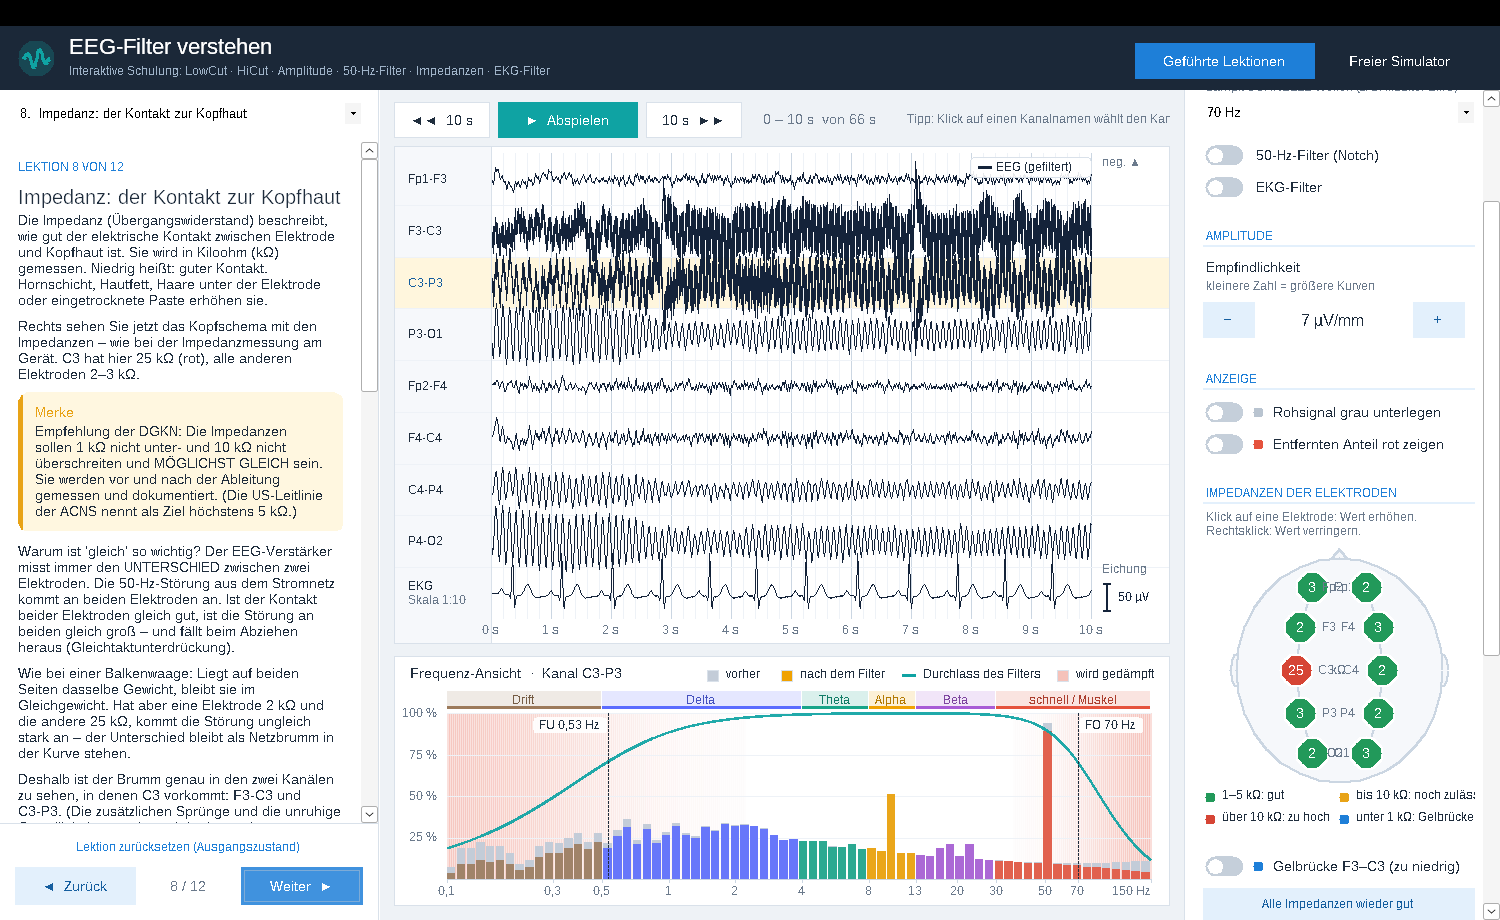
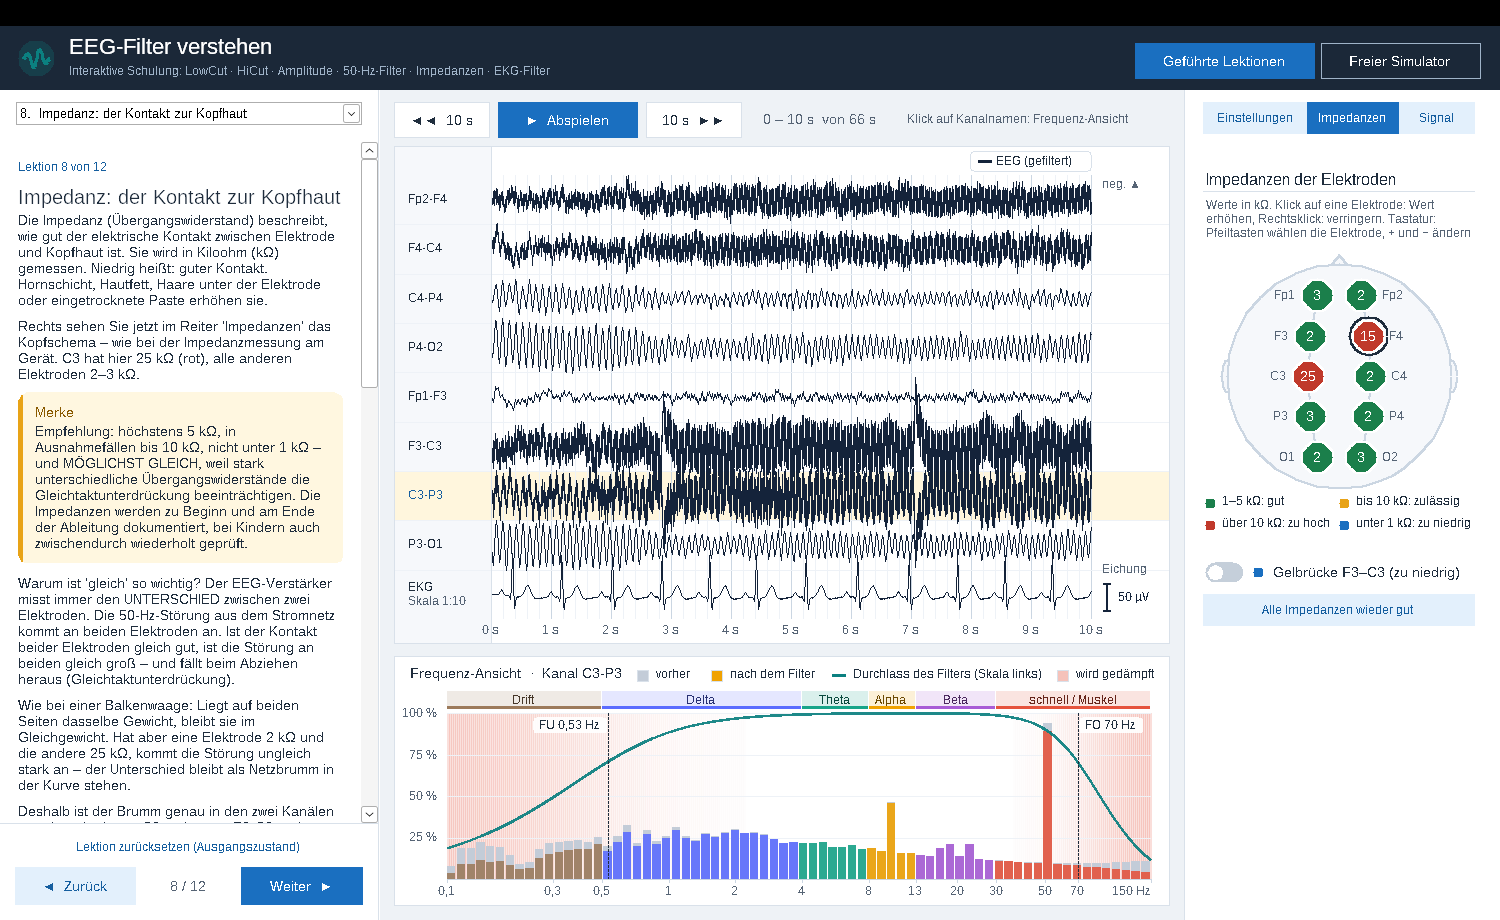
Rechte Leiste mit drei Reitern, Kopfschema per Tastatur bedienbar
- Einstellungen, Impedanzen und Signal als Reiter: jeder Bereich passt
  ohne Scrollen; Lektionen öffnen den passenden Reiter
- Kopfschema: Pfeiltasten wählen die Elektrode, + und - ändern den Wert,
  sichtbarer Fokusring

Claude-Session: https://claude.ai/code/session_01Y2fd9GsygCdrgbDvqwwBgL

diff --git a/README.md b/README.md
@@ -16,7 +16,8 @@ Das didaktische Konzept steht in [KONZEPT.md](KONZEPT.md).
 - **Geführte Lektionen** (12 Kapitel): links lesen, rechts ausprobieren. Mit „Weiter“ geht es zum nächsten Kapitel. „Lektion zurücksetzen“ stellt den Ausgangszustand wieder her.
 - **Freier Simulator**: Alle Regler und Signal-Bausteine sind frei wählbar.
 - Ein Klick auf einen **Kanalnamen** wählt den Kanal für die Frequenz-Ansicht.
-- Im **Kopfschema** rechts ändert ein Klick auf eine Elektrode deren Impedanz (Rechtsklick: zurück).
+- Die rechte Leiste hat drei Reiter: **Einstellungen** (Filter, Amplitude, Anzeige), **Impedanzen** und **Signal**. Die Lektionen öffnen jeweils den passenden Reiter.
+- Im **Kopfschema** (Reiter „Impedanzen“) ändert ein Klick auf eine Elektrode deren Impedanz (Rechtsklick: zurück). Per Tastatur: Pfeiltasten wählen die Elektrode, `+` und `−` ändern den Wert.
 - **Abspielen** lässt das EEG wie am Gerät laufen. Tastatur:
   - `P` startet und stoppt die Wiedergabe.
   - `←` / `→` blättern um 10 s zurück bzw. vor.
